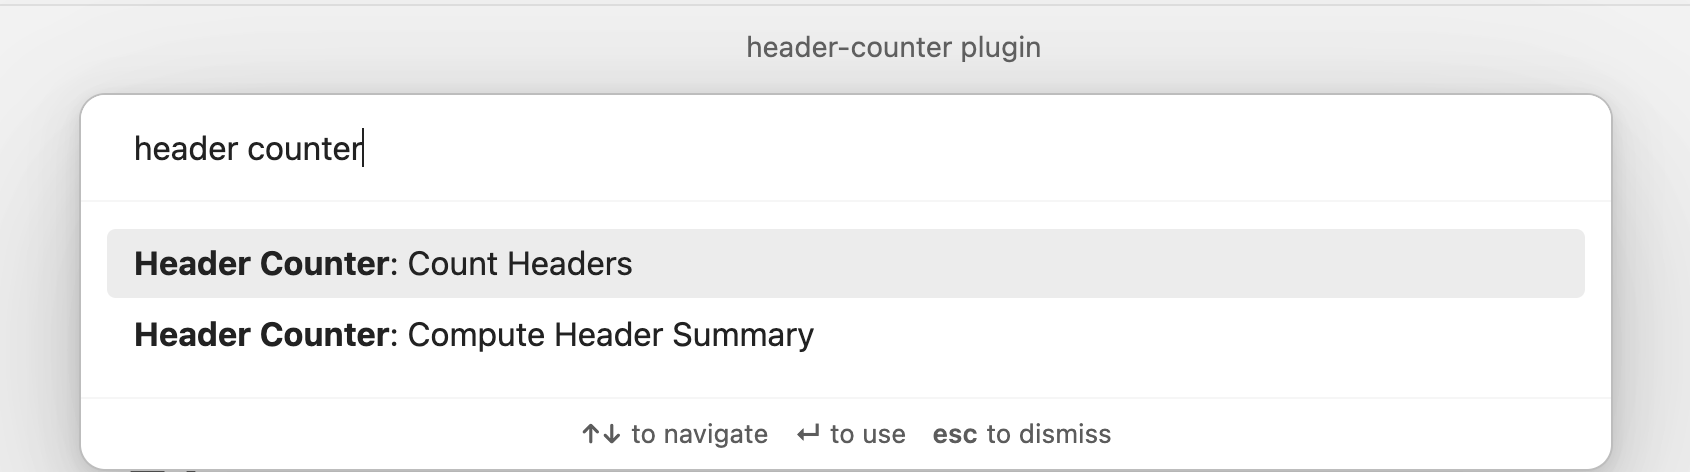
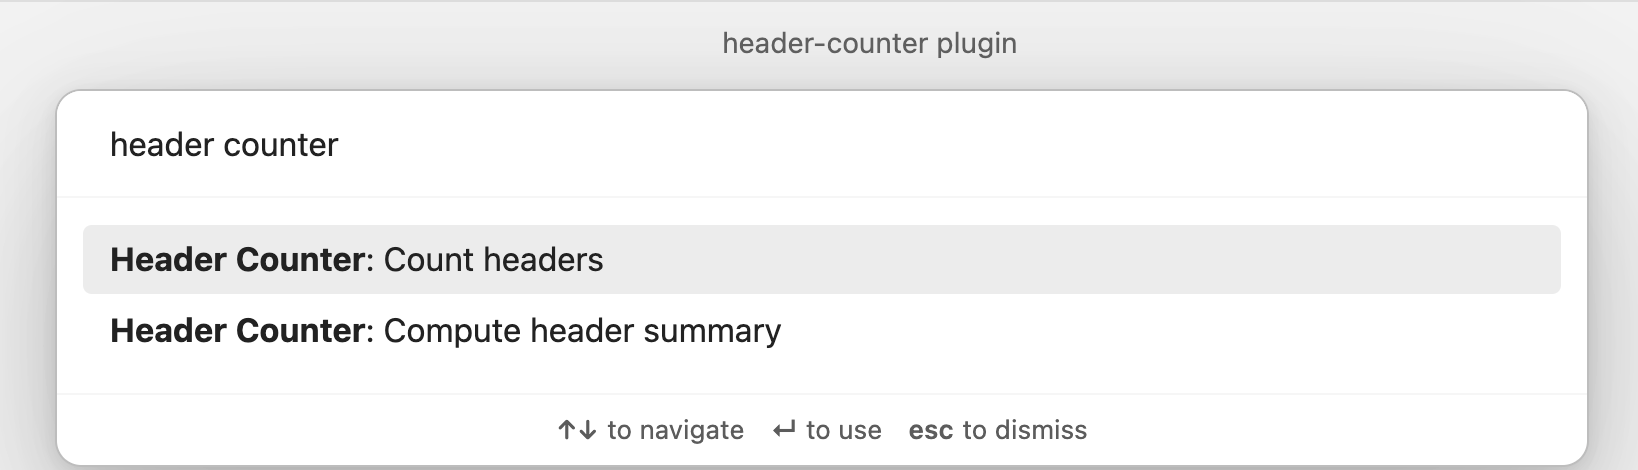
incorporate feedback

Changed region(s): [[0.0311, 0.1787, 0.9963, 1.0], [0.3425, 0.8936, 0.685, 0.9532], [0.4359, 0.0596, 0.6227, 0.1191]]

diff --git a/main.ts b/main.ts
@@ -12,12 +12,10 @@ import { ICON_DATA } from "resources/icons";
 
 interface HeaderCounterPluginSettings {
 	defaultLevel: string;
-	showRibbonIcon: boolean;
 }
 
 const DEFAULT_SETTINGS: HeaderCounterPluginSettings = {
 	defaultLevel: "4",
-	showRibbonIcon: true,
 };
 
 export default class HeaderCounterPlugin extends Plugin {
@@ -30,17 +28,15 @@ export default class HeaderCounterPlugin extends Plugin {
 
 		addIcon("header", ICON_DATA);
 
-		if (this.settings.showRibbonIcon) {
-			this.addRibbonIcon("header", "Header Counter", () => {
-				new HeaderLevelModal(
-					this.app,
-					(headerLevel) => {
-						this.countHeaders(headerLevel);
-					},
-					parseInt(this.settings.defaultLevel)
-				).open();
-			}).setAttribute("id", "header-counter-icon");
-		}
+		this.addRibbonIcon("header", "Header Counter", () => {
+			new HeaderLevelModal(
+				this.app,
+				(headerLevel) => {
+					this.countHeaders(headerLevel);
+				},
+				parseInt(this.settings.defaultLevel)
+			).open();
+		});
 
 		this.addSettingTab(new HeaderCounterSettingTab(this.app, this));
 
@@ -48,8 +44,10 @@ export default class HeaderCounterPlugin extends Plugin {
 			id: "count-headers",
 			name: "Count headers",
 			checkCallback: (checking: boolean) => {
+				const view =
+					this.app.workspace.getActiveViewOfType(MarkdownView);
 				if (checking) {
-					return true;
+					return !!view;
 				}
 
 				// Prompt user for header level input
@@ -67,10 +65,11 @@ export default class HeaderCounterPlugin extends Plugin {
 			id: "header-summary",
 			name: "Compute header summary",
 			checkCallback: (checking: boolean) => {
+				const view =
+					this.app.workspace.getActiveViewOfType(MarkdownView);
 				if (checking) {
-					return true;
+					return !!view;
 				}
-
 				this.computeHeaderSummary();
 			},
 		});
@@ -93,12 +92,9 @@ export default class HeaderCounterPlugin extends Plugin {
 	}
 
 	async countHeaders(headerLevel: number) {
-		const view = this.app.workspace.getActiveViewOfType(MarkdownView);
-
-		if (!(view instanceof MarkdownView)) {
-			new Notice("Active view is not a Markdown view.");
-			return;
-		}
+		const view = this.app.workspace.getActiveViewOfType(
+			MarkdownView
+		) as MarkdownView;
 
 		const editor = view.editor;
 		const content = editor.getValue();
@@ -111,12 +107,9 @@ export default class HeaderCounterPlugin extends Plugin {
 	}
 
 	async computeHeaderSummary() {
-		const view = this.app.workspace.getActiveViewOfType(MarkdownView);
-
-		if (!(view instanceof MarkdownView)) {
-			new Notice("Active view is not a Markdown view.");
-			return;
-		}
+		const view = this.app.workspace.getActiveViewOfType(
+			MarkdownView
+		) as MarkdownView;
 
 		const editor = view.editor;
 		const content = editor.getValue();
@@ -129,7 +122,7 @@ export default class HeaderCounterPlugin extends Plugin {
 			headerSummary[`h${level}`] = matches ? matches.length : 0;
 		}
 
-		new Notice(`Header Summary: ${JSON.stringify(headerSummary)}`);
+		new Notice(`Header summary: ${JSON.stringify(headerSummary)}`);
 		new Notice("Copied to clipboard!");
 		navigator.clipboard.writeText(JSON.stringify(headerSummary));
 	}
@@ -208,11 +201,10 @@ class HeaderCounterSettingTab extends PluginSettingTab {
 
 		this.add_general_setting_header();
 		this.add_setting_header();
-		this.add_ribon_icon_setting();
 	}
 
 	add_general_setting_header(): void {
-		this.containerEl.createEl("h2", { text: "Settings" });
+		new Setting(this.containerEl).setName("Header counter").setHeading();
 	}
 
 	add_setting_header(): void {
@@ -236,52 +228,6 @@ class HeaderCounterSettingTab extends PluginSettingTab {
 							new Notice(
 								"Please enter a valid number between 1 and 6."
 							);
-						}
-					})
-			);
-	}
-
-	add_ribon_icon_setting(): void {
-		const desc = document.createDocumentFragment();
-		desc.append(
-			"If enabled, a button which opens the header counter modal will be added to the Obsidian sidebar."
-		);
-
-		new Setting(this.containerEl)
-			.setName("Show icon in sidebar")
-			.setDesc(desc)
-			.addToggle((toggle) =>
-				toggle
-					.setValue(this.plugin.settings.showRibbonIcon)
-					.onChange((value) => {
-						this.plugin.settings.showRibbonIcon = value;
-						this.plugin.saveSettings();
-						this.display();
-						if (this.plugin.settings.showRibbonIcon) {
-							this.plugin
-								.addRibbonIcon(
-									"header",
-									"Header Counter",
-									() => {
-										new HeaderLevelModal(
-											this.app,
-											(headerLevel) => {
-												this.plugin.countHeaders(
-													headerLevel
-												);
-											},
-											parseInt(
-												this.plugin.settings
-													.defaultLevel
-											)
-										).open();
-									}
-								)
-								.setAttribute("id", "header-counter-icon");
-						} else {
-							document
-								.getElementById("header-counter-icon")
-								?.remove();
 						}
 					})
 			);

diff --git a/README.md b/README.md
@@ -8,9 +8,9 @@ If this plugin isn't listed in the Obsidian plugin registry yet, you'll need to 
 
 ### Available Commands
 
--   **Count Headers**: Open the command palette and search for "Header Counter: Count Headers" to count the headers in the current note.
+-   **Count headers**: Open the command palette and search for "Header Counter: Count Headers" to count the headers in the current note.
 
--   **Compute Header Summary**: Open the command palette and search for "Header Counter: Compute Header Summary" to compute the header summary for the current note.
+-   **Compute header summary**: Open the command palette and search for "Header Counter: Compute Header Summary" to compute the header summary for the current note.
 
 ### Configuration
 
